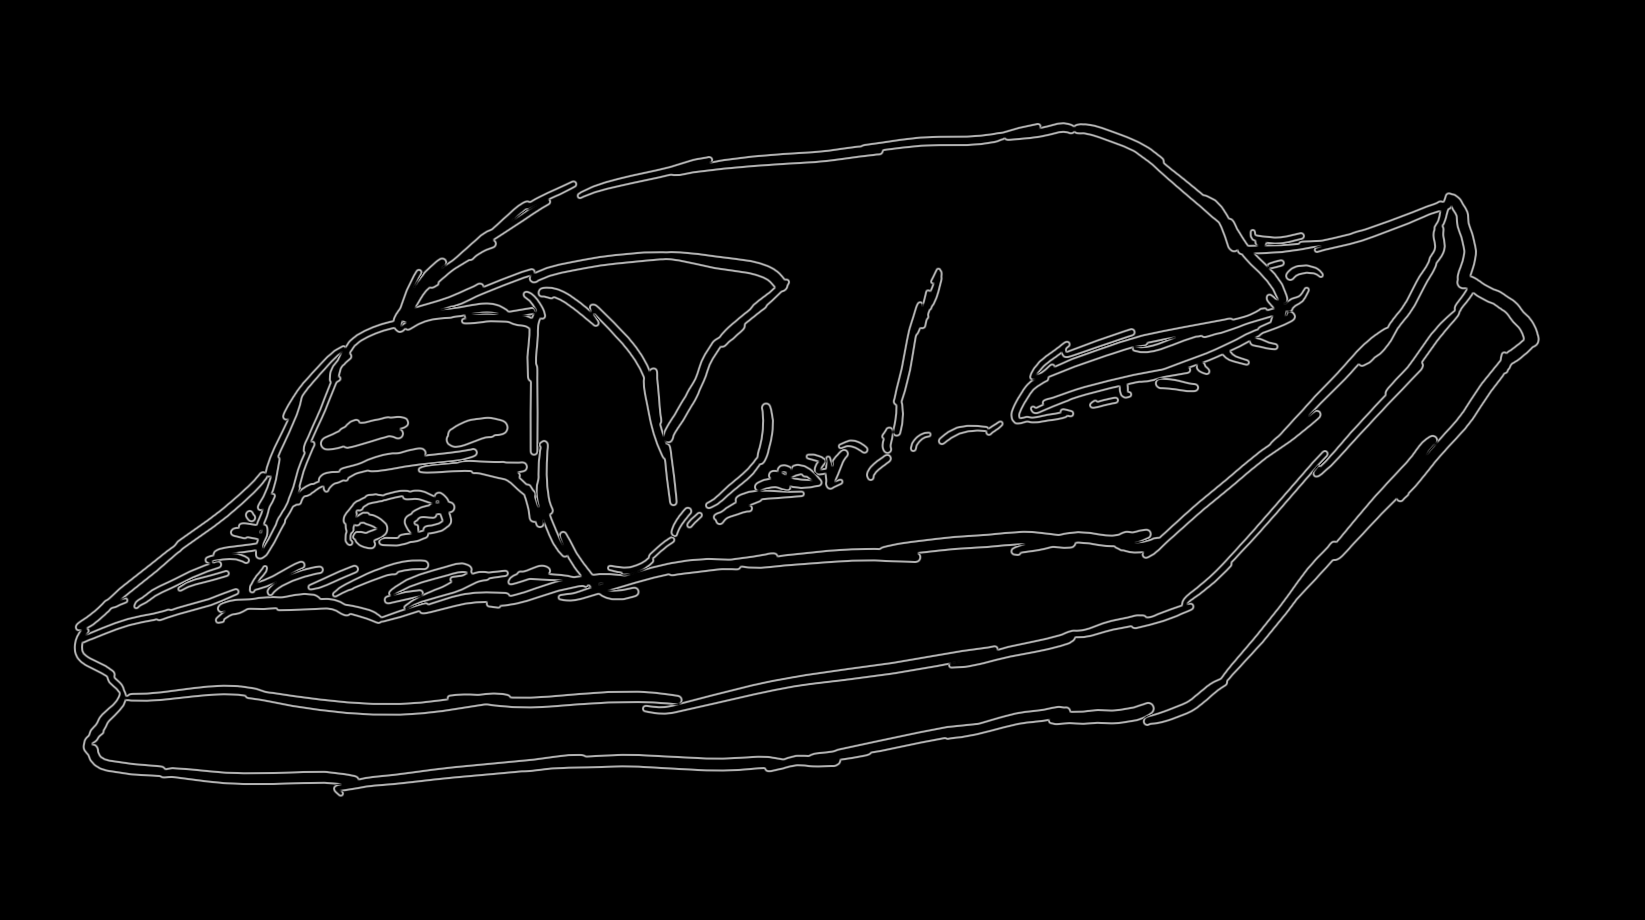
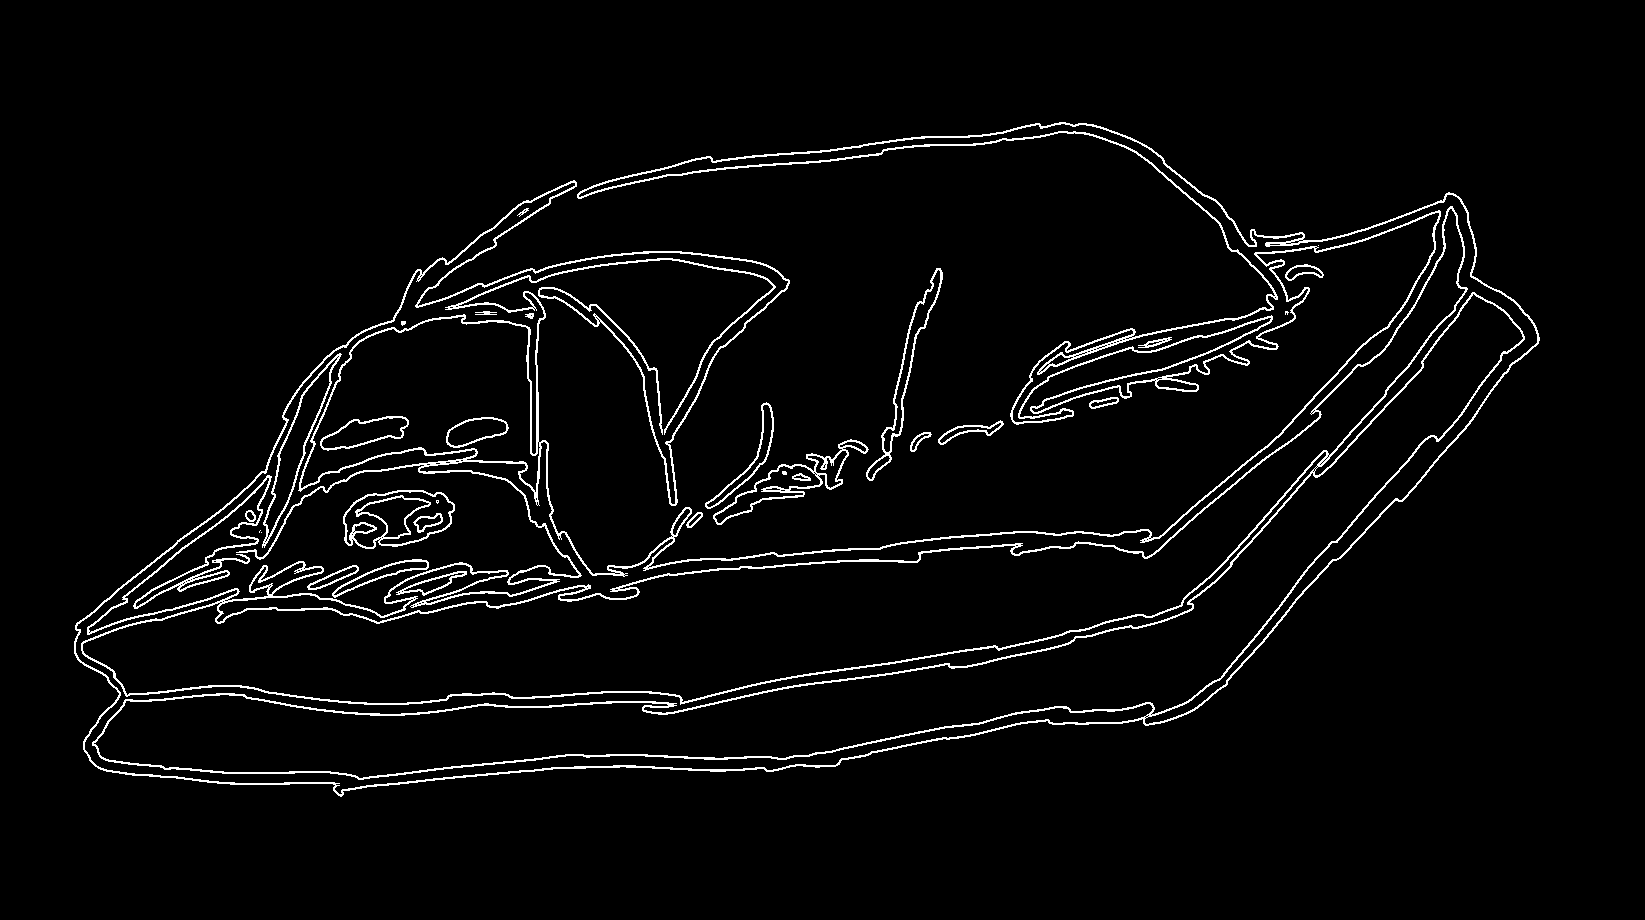
Playing around with threshing the outlined images

diff --git a/transform.py b/transform.py
@@ -1,43 +1,25 @@
 import os
 import sys
+
+import numpy as np
+import matplotlib.pyplot as plt
+
+from matplotlib import cm
 from multiprocessing import Pool
 from time import monotonic
-
-# from matplotlib.pyplot import imshow, axis
-import numpy as np
-import statistics as st
 from imageio import imread, imwrite
-from skimage import color, feature, filters
+from skimage import color, filters
+from scipy import ndimage
 
-
-def detect_edges(image, sigma=None):
-    edges = np.zeros(image.shape)
-    for i, row in enumerate(image):
-        highlight_these = highlight_points(row, sigma)
-        for val in highlight_these:
-            edges[i][val] = 1
-    return edges
-
-def highlight_points(vals, sigma=None):
-    diffs = []
-    indices = []
-    length = len(vals)
-    for i in range(length-1):
-        diff = abs(vals[i+1] - vals[i])
-        diffs.append(diff)
-    sd = sigma if sigma else st.pstdev(diffs)
-    sd_coverage = 4
-    m = st.mean(diffs)
-    tolerance = [m-sd_coverage*sd, m+sd_coverage*sd] 
-    for i, val in enumerate(diffs):
-        if val < min(tolerance) or val > max(tolerance):
-            indices.append(i)
-    return indices
-
-def decide_cutoff(row, threshold):
-    for i in range(len(row)):
-        row[i] = row[i] if row[i] > threshold else 0
-    return row
+def plotimages(*ims, title=None):
+    fig = plt.figure()
+    if title:
+        plt.title(title)
+    for i, im in enumerate(ims):
+        ax = fig.add_subplot(1, len(ims), i+1)
+        ax.axis('off')
+        ax.imshow(im, cmap=cm.gray)
+    plt.show()
 
 def map_regions(image):
     return ndimage.label(image)
@@ -55,19 +37,16 @@ def do_one(path):
     print("Starting ", path)
     im = imread(path)
     gray_im = color.rgb2gray(im)
-
-    # outlined_im = detect_edges(gray_im, sigma=3.0)
-    # outlined_im = detect_edges(gray_im) * 255
-    # outlined_im = feature.canny(gray_im) * 255
-    outlined_im = filters.sobel(gray_im)
     
-    mapped, num_regions = map_regions(outlined_im)
+    outlined_im = filters.sobel(gray_im)
+    threshed = outlined_im > filters.threshold_otsu(outlined_im)
+    threshed = (threshed.astype('uint8'))*255
 
-    mapped = mapped
-
+    final_output = threshed
+    plt.imshow(final_output, cmap=cm.gray)
     output = path.split('/')[-1].split('.png')[0]
     output = 'output/'+output+'_output.png'
-    imwrite(output, region_mapped.astype('uint8'))
+    imwrite(output, final_output)
 
     print("Finished: ", path)
 
@@ -79,6 +58,6 @@ if __name__ == "__main__":
             do_one(path)
     else:
         # do_all_tests()
-        do_one('test_images/'+'journey.png')
+        do_one('test_images/'+'ricos_grappler.png')
     print("Finished All.")
     print("Elapsed Time ", (monotonic() - start)/60)
